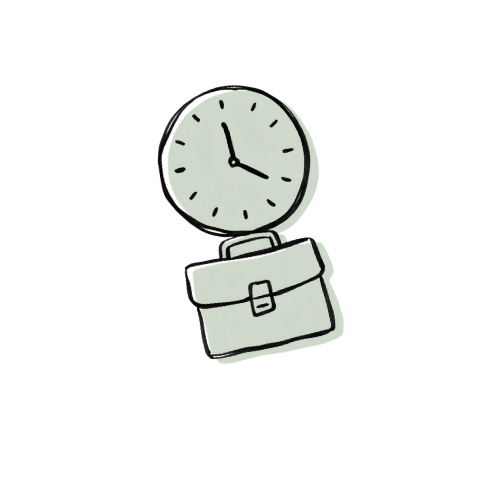
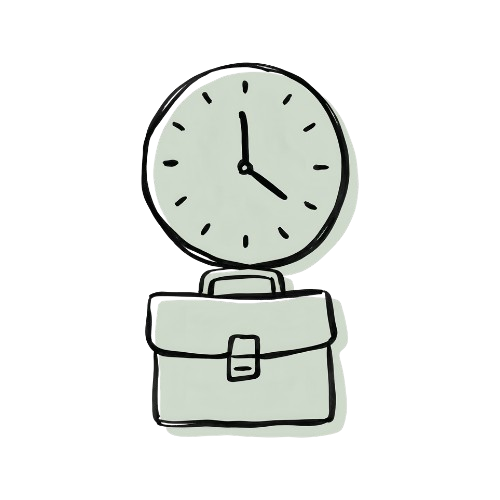
Move clock, add murgi

Changed region(s): [[0.27, 0.12, 0.72, 0.9]]

diff --git a/index.html b/index.html
@@ -116,6 +116,7 @@
       <div class="carousel">
         <img src="img/biriyani.jpg" alt="Biriyani cooking in a pan, garnished with fried potato and whole spices" class="carousel-card">
         <img src="img/biriyani-plate.jpg" alt="A plated serving of beef tehari with potato, egg, and green chili" class="carousel-card">
+        <img src="img/chicken-aloo.jpg" alt="Chicken aloo jhol, a light potato and chicken curry" class="carousel-card">
         <img src="img/ghee.jpg" alt="A jar of Gawa Ghee" class="carousel-card">
       </div>
       <div class="carousel-dots" aria-hidden="true"></div>

diff --git a/styles.css b/styles.css
@@ -164,7 +164,7 @@ h1, h2, h3 {
   flex-direction: row;
   align-items: center;
   justify-content: center;
-  gap: clamp(0.4rem, 2vw, 1.25rem);
+  gap: clamp(0.1rem, 0.6vw, 0.35rem);
 }
 
 .hero-tagline-clock,
@@ -181,7 +181,7 @@ h1, h2, h3 {
 }
 
 .hero-tagline-plate {
-  height: clamp(70px, 13vw, 98px);
+  height: clamp(84px, 15.4vw, 116px);
 }
 
 .hero-tagline-text {
